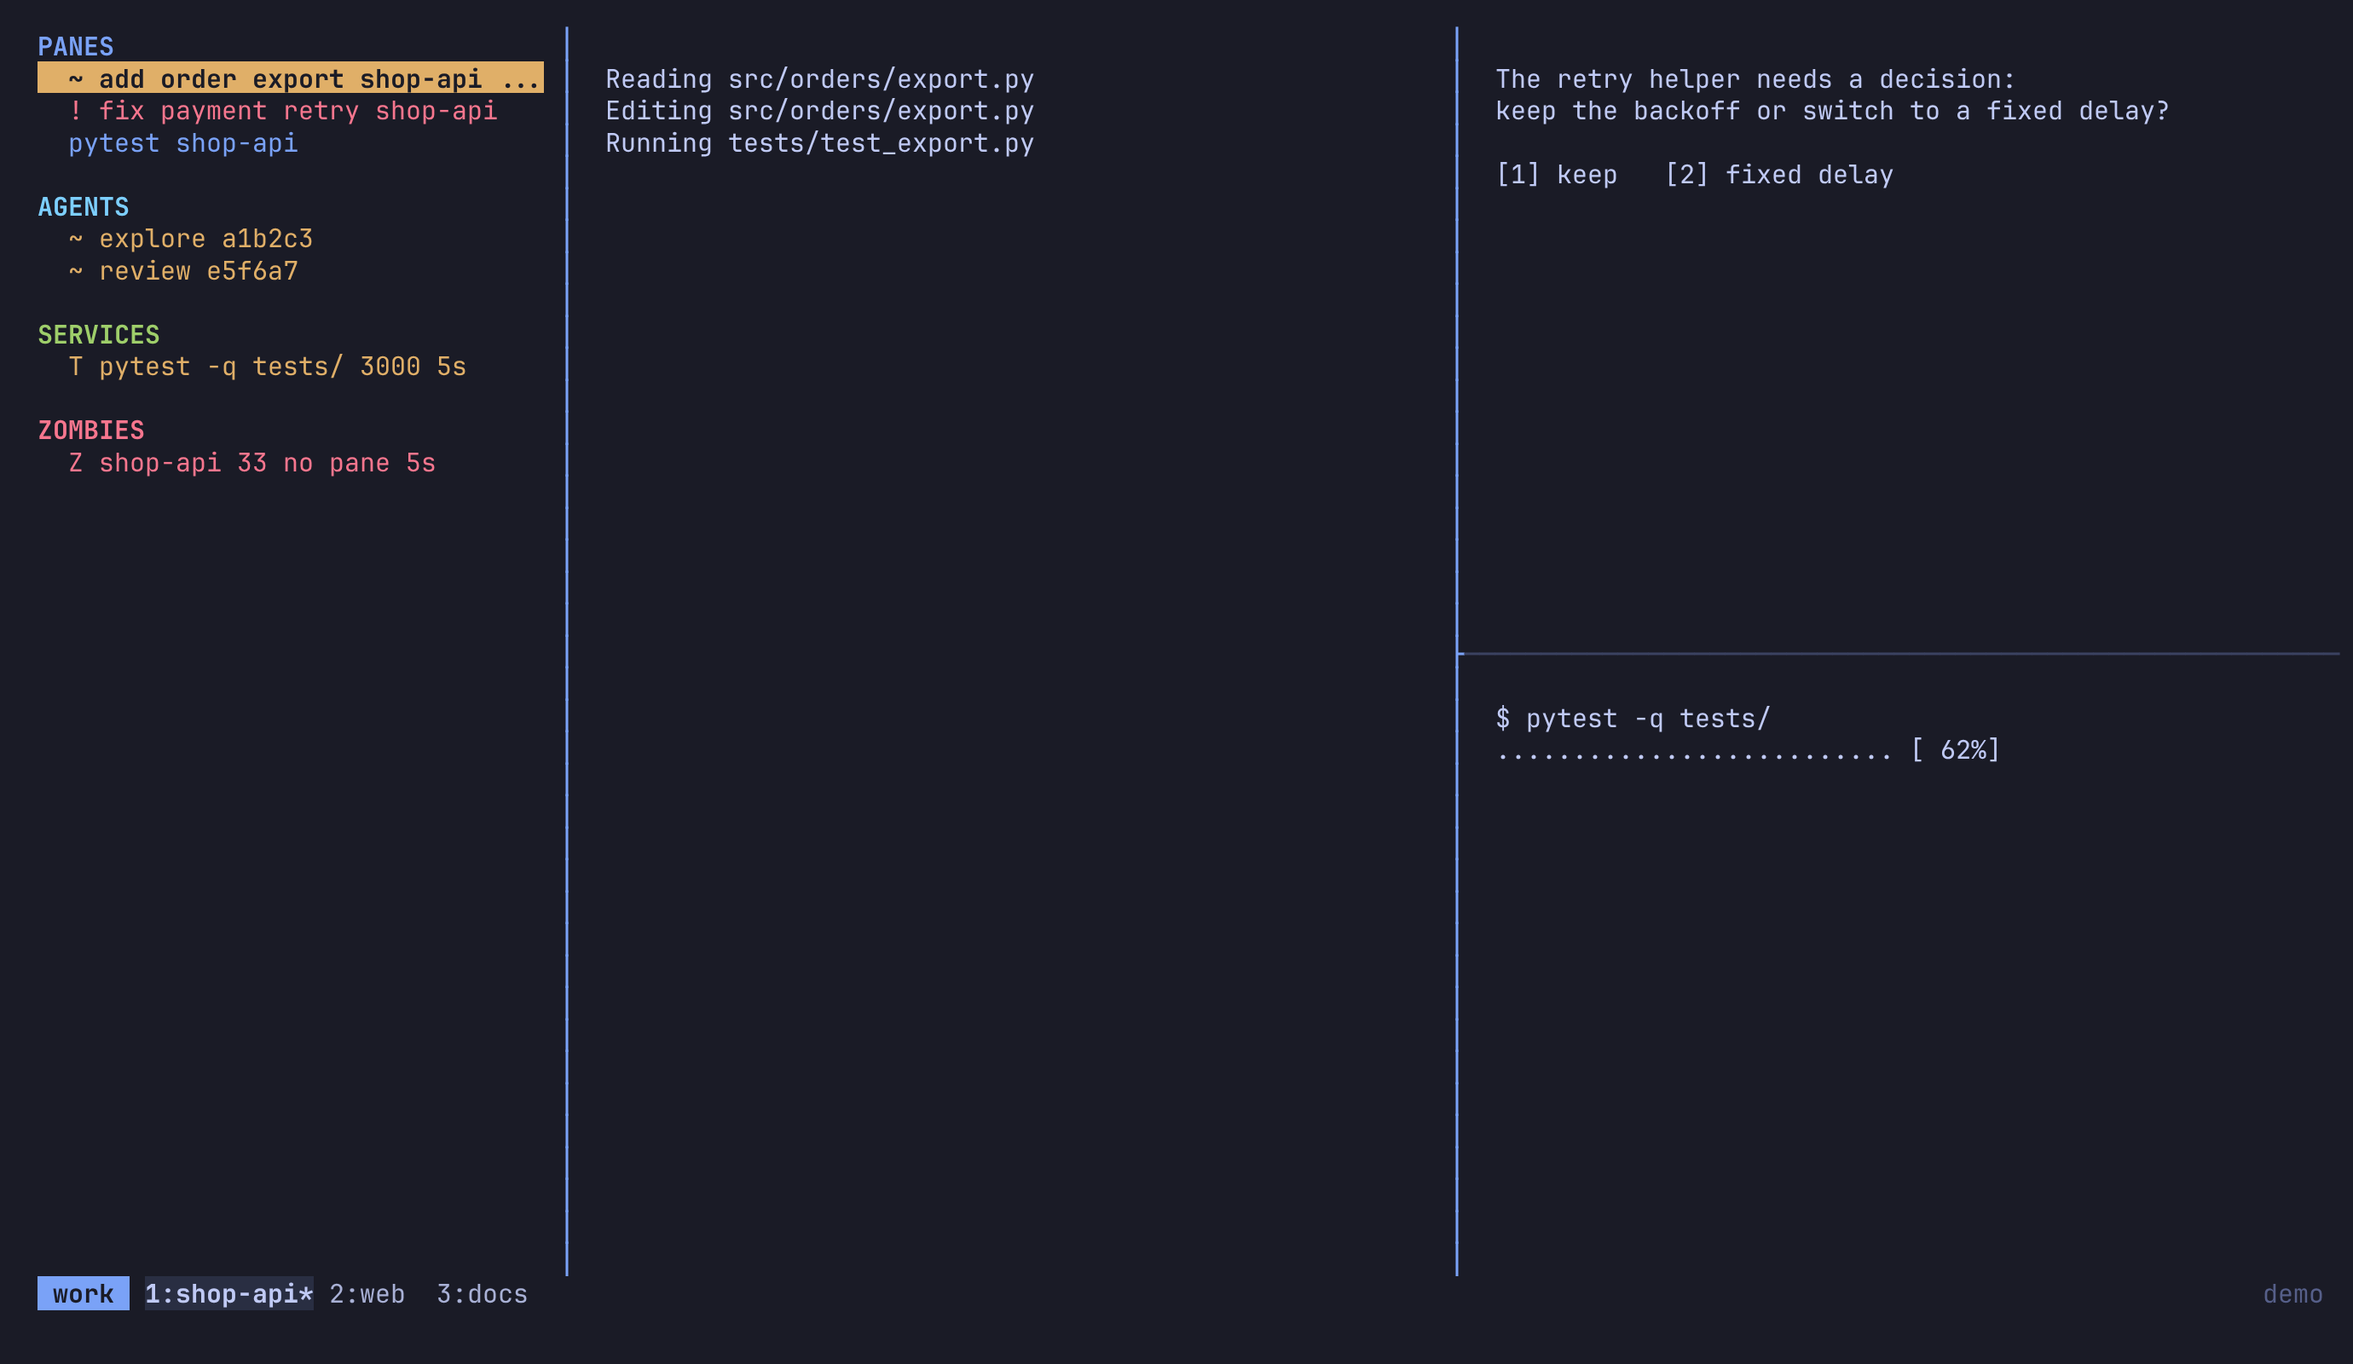
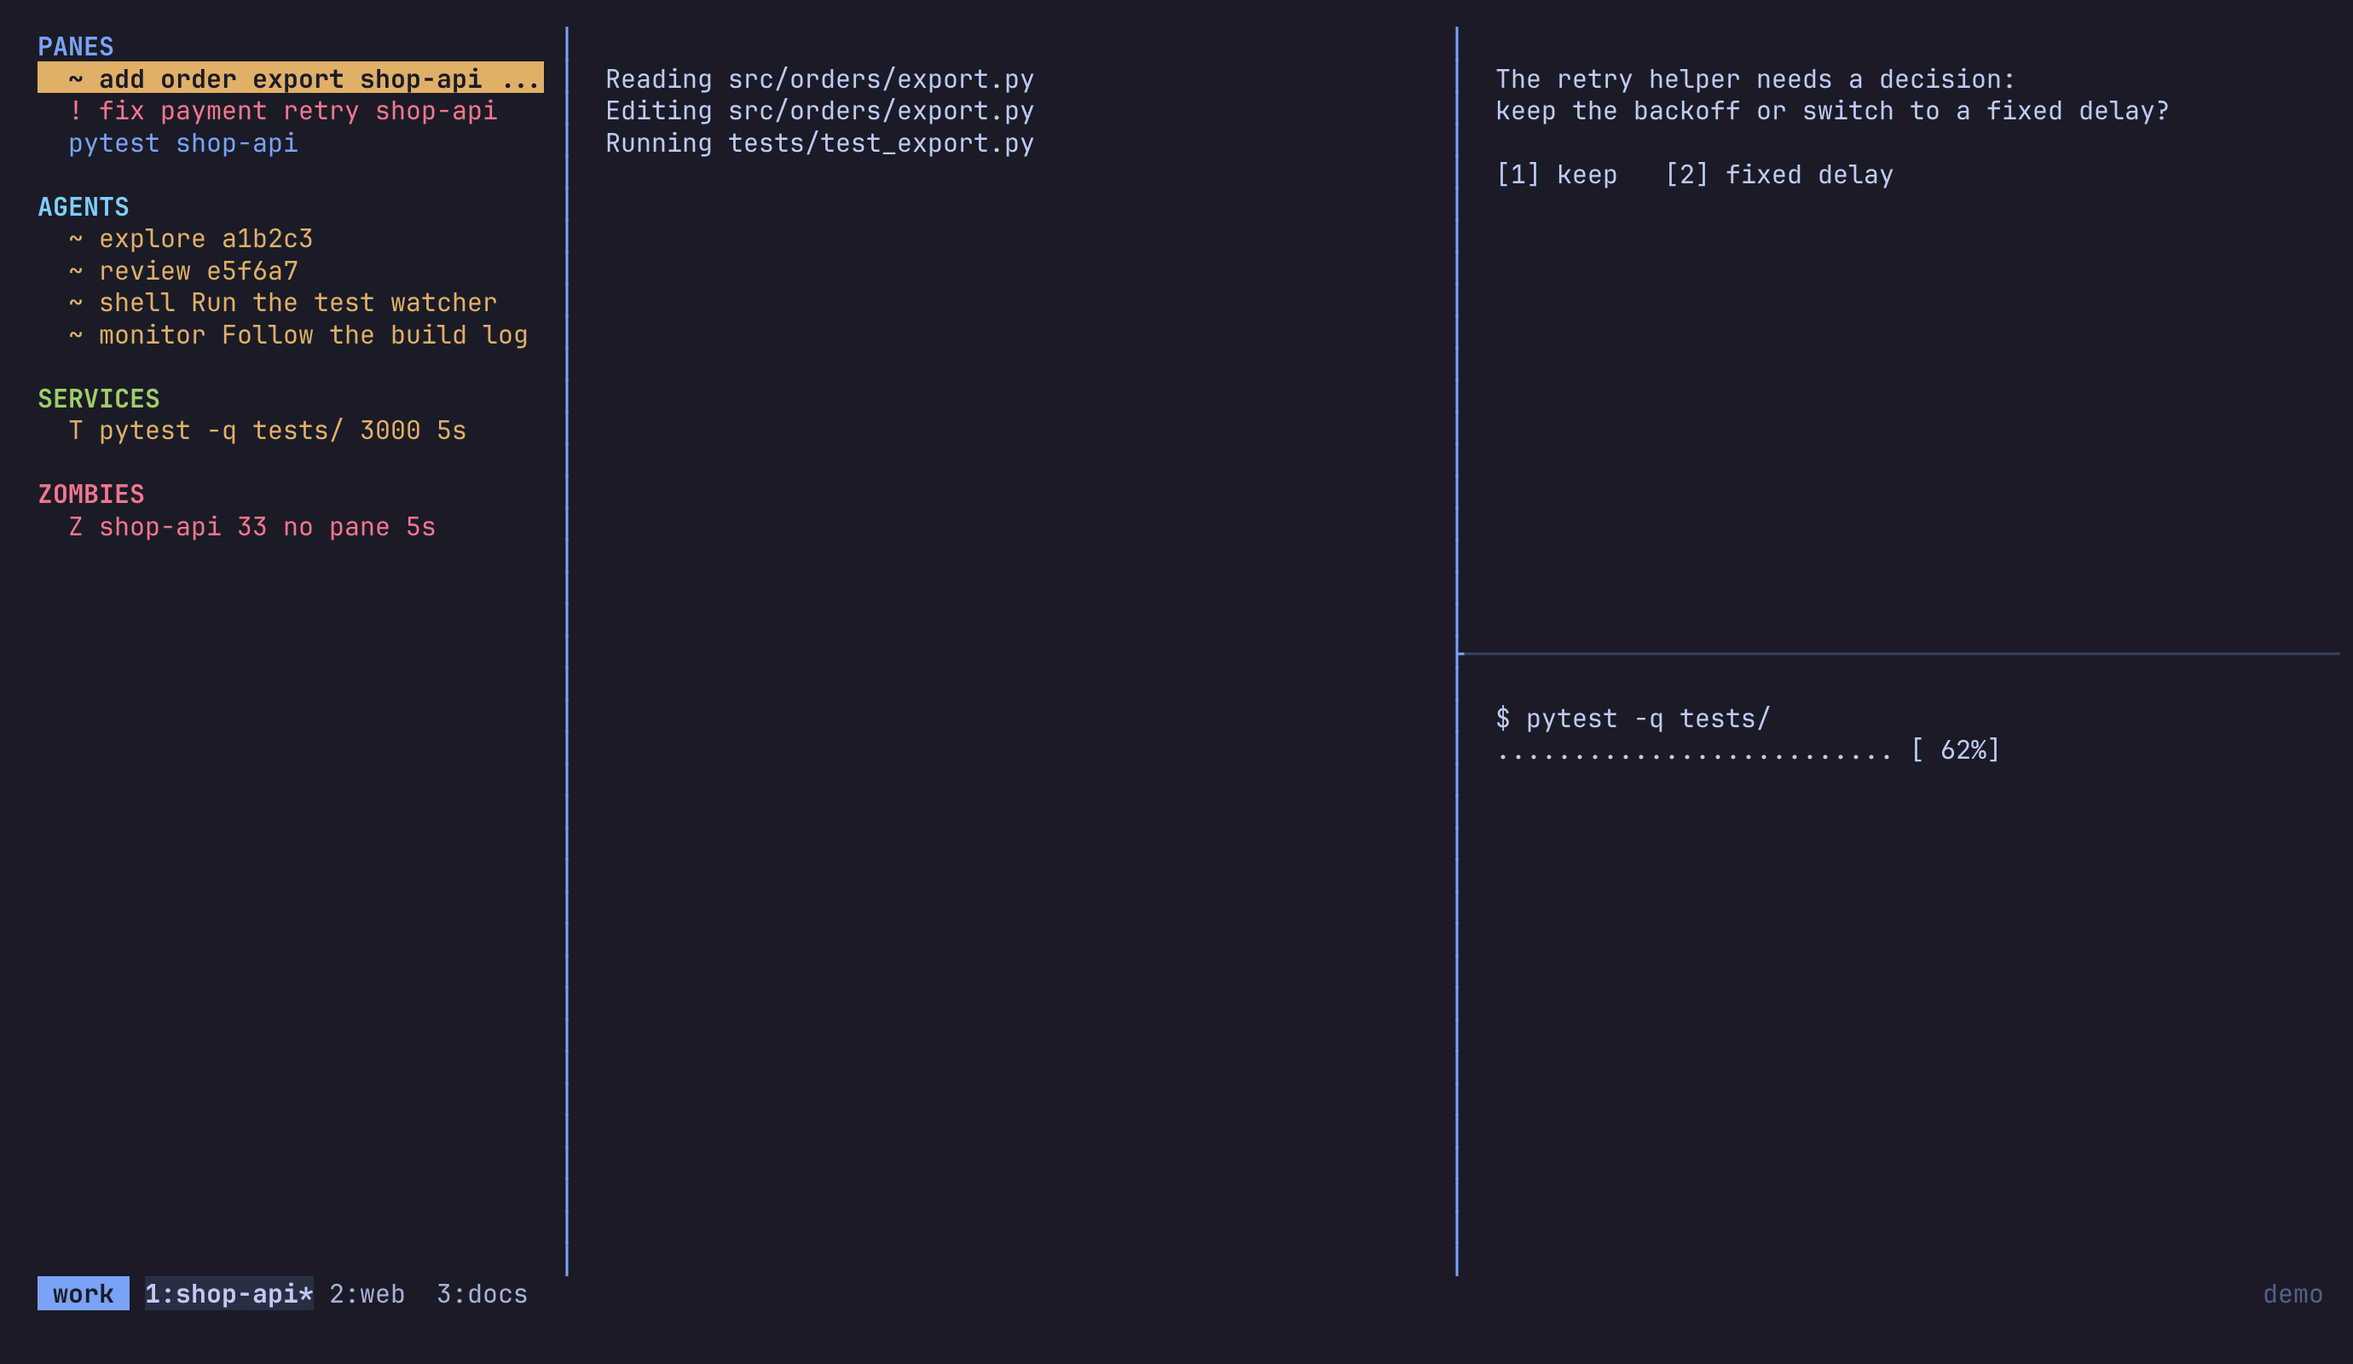
feat(panel): list the background tasks of an agent

Changed region(s): [[0.0, 0.2188, 0.2181, 0.4062], [0.1246, 0.375, 0.187, 0.4062]]

diff --git a/tests/test_hooks.py b/tests/test_hooks.py
@@ -8,6 +8,7 @@ from tmux_sidepanel.hooks import (
     StateChange,
     state_change,
     updated_subagents,
+    updated_tasks,
 )
 
 
@@ -119,3 +120,68 @@ def test_format_subagents_writes_entries_separated_by_a_space():
 
 def test_the_entry_of_a_subagent():
     assert Subagent("aaa111", "Explore").entry == "aaa111:Explore"
+
+
+BACKGROUND_START = {
+    "tool_name": "Bash",
+    "tool_input": {"command": "sleep 25", "description": "Run sleep 25", "run_in_background": True},
+    "tool_response": {"stdout": "", "backgroundTaskId": "bvz0tqfh6"},
+}
+
+
+def snapshot(*tasks, crons=()):
+    return {"background_tasks": list(tasks), "session_crons": list(crons)}
+
+
+def shell_task(identifier="bvz0tqfh6", description="Run sleep 25", status="running"):
+    return {"id": identifier, "type": "shell", "status": status, "description": description}
+
+
+class TestBackgroundTasks:
+    def test_a_background_command_is_listed_when_it_starts(self):
+        assert updated_tasks("", BACKGROUND_START) == "bvz0tqfh6:shell:Run_sleep_25"
+
+    def test_a_command_in_the_foreground_adds_nothing(self):
+        payload = {**BACKGROUND_START, "tool_response": {"stdout": "done"}}
+        assert updated_tasks("", payload) == ""
+
+    def test_a_start_keeps_the_tasks_that_run_already(self):
+        assert updated_tasks("old1:shell", BACKGROUND_START) == (
+            "old1:shell bvz0tqfh6:shell:Run_sleep_25"
+        )
+
+    def test_the_same_task_is_listed_once(self):
+        current = "bvz0tqfh6:shell:Run_sleep_25"
+        assert updated_tasks(current, BACKGROUND_START) == current
+
+    def test_a_snapshot_replaces_the_list(self):
+        payload = snapshot(shell_task("new111", "Build"))
+        assert updated_tasks("old1:shell", payload) == "new111:shell:Build"
+
+    def test_an_empty_snapshot_ends_every_task(self):
+        assert updated_tasks("old1:shell", snapshot()) == ""
+
+    def test_only_running_tasks_are_listed(self):
+        payload = snapshot(shell_task("run111"), shell_task("end222", status="completed"))
+        assert updated_tasks("", payload) == "run111:shell:Run_sleep_25"
+
+    def test_the_type_is_the_kind(self):
+        payload = snapshot({"id": "m1", "type": "monitor", "status": "running"})
+        assert updated_tasks("", payload) == "m1:monitor"
+
+    def test_subagents_are_left_to_the_subagent_hooks(self):
+        payload = snapshot({"id": "a1", "type": "subagent", "status": "running"})
+        assert updated_tasks("", payload) == ""
+
+    def test_scheduled_tasks_are_listed_as_cron(self):
+        payload = snapshot(crons=[{"id": "c1", "schedule": "*/5 * * * *", "prompt": "check"}])
+        assert updated_tasks("", payload) == "c1:cron"
+
+    def test_a_payload_without_a_snapshot_changes_nothing(self):
+        assert updated_tasks("old1:shell", {"last_assistant_message": "ok"}) == "old1:shell"
+
+    def test_odd_characters_are_replaced_and_a_long_description_is_cut(self):
+        payload = snapshot(shell_task("a b", "npm run dev --port=3000 " + "x" * 80))
+        entry = updated_tasks("", payload)
+        assert entry.startswith("a_b:shell:npm_run_dev_--port_3000_")
+        assert len(entry.split(":")[2]) == 40

diff --git a/src/tmux_sidepanel/hooks.py b/src/tmux_sidepanel/hooks.py
@@ -104,6 +104,7 @@ def keep_subagents(subagents: list[Subagent], subagent: Subagent) -> list[Subage
 
 
 SUBAGENT_UPDATES = {"sub-start": with_subagent, "sub-stop": without_subagent}
+MAX_TASK_DESCRIPTION = 40
 
 
 def updated_subagents(current: str, action: str, payload: dict[str, Any]) -> str:
@@ -112,3 +113,40 @@ def updated_subagents(current: str, action: str, payload: dict[str, Any]) -> str
     update = SUBAGENT_UPDATES.get(action, keep_subagents)
     chosen = update if subagent.has_identifier() else keep_subagents
     return format_subagents(chosen(parse_subagents(current), subagent))
+
+
+def task_entry(identifier: Any, kind: Any, description: Any = "") -> Subagent:
+    text = sanitized_token(description, "")[:MAX_TASK_DESCRIPTION]
+    return Subagent(sanitized_token(identifier, ""), sanitized_token(kind, "task"), text)
+
+
+def is_listed_task(task: dict[str, Any]) -> bool:
+    """A running task that is not a subagent: those have their own start and stop hooks."""
+    return task.get("status", "running") == "running" and task.get("type") != "subagent"
+
+
+def snapshot_tasks(payload: dict[str, Any]) -> list[Subagent]:
+    running = filter(is_listed_task, payload["background_tasks"])
+    tasks = [
+        task_entry(task.get("id", ""), task.get("type", ""), task.get("description", ""))
+        for task in running
+    ]
+    crons = [task_entry(cron.get("id", ""), "cron") for cron in payload.get("session_crons", [])]
+    return list(filter(Subagent.has_identifier, [*tasks, *crons]))
+
+
+def started_task(payload: dict[str, Any]) -> Subagent:
+    """The background command that a Bash call has just started, or an entry without identifier."""
+    identifier = payload.get("tool_response", {}).get("backgroundTaskId", "")
+    description = payload.get("tool_input", {}).get("description", "")
+    return task_entry(identifier, "shell", description)
+
+
+def updated_tasks(current: str, payload: dict[str, Any]) -> str:
+    """The stored background tasks. A snapshot (Stop) replaces the list, a started command adds."""
+    if "background_tasks" in payload:
+        return format_subagents(snapshot_tasks(payload))
+    started = started_task(payload)
+    if not started.has_identifier():
+        return current
+    return format_subagents([*without_subagent(parse_subagents(current), started), started])

diff --git a/src/tmux_sidepanel/hook_runner.py b/src/tmux_sidepanel/hook_runner.py
@@ -4,20 +4,27 @@ from collections.abc import Collection, Iterable
 from dataclasses import dataclass
 from typing import Any
 
-from tmux_sidepanel.hooks import HookContext, StateChange, state_change, updated_subagents
+from tmux_sidepanel.hooks import (
+    HookContext,
+    StateChange,
+    state_change,
+    updated_subagents,
+    updated_tasks,
+)
 from tmux_sidepanel.options import (
     OPTION_KIND,
     OPTION_NAME,
     OPTION_SESSION_STATE,
     OPTION_STATE,
     OPTION_SUBAGENTS,
+    OPTION_TASKS,
     OPTION_WINDOW_STATE,
 )
 from tmux_sidepanel.panes import PaneRecord
 from tmux_sidepanel.rollup import session_states, stale_agent_panes, window_states
 from tmux_sidepanel.tmux_client import TmuxClient
 
-AGENT_OPTIONS = (OPTION_STATE, OPTION_KIND, OPTION_NAME, OPTION_SUBAGENTS)
+AGENT_OPTIONS = (OPTION_STATE, OPTION_KIND, OPTION_NAME, OPTION_SUBAGENTS, OPTION_TASKS)
 
 
 @dataclass(frozen=True)
@@ -71,6 +78,12 @@ def apply_subagents(client: TmuxClient, pane: PaneRecord, request: HookRequest) 
         client.write_pane_option(pane.pane_identifier, OPTION_SUBAGENTS, updated)
 
 
+def apply_tasks(client: TmuxClient, pane: PaneRecord, request: HookRequest) -> None:
+    updated = updated_tasks(pane.agent_tasks, request.payload)
+    if updated != pane.agent_tasks:
+        client.write_pane_option(pane.pane_identifier, OPTION_TASKS, updated)
+
+
 def write_rollups_of(client: TmuxClient, pane: PaneRecord) -> None:
     """Write the window and session roll-ups that this pane belongs to."""
     panes = client.list_panes()
@@ -87,6 +100,7 @@ def run_hook(client: TmuxClient, request: HookRequest) -> None:
         return
     apply_state_change(client, pane, request)
     apply_subagents(client, pane, request)
+    apply_tasks(client, pane, request)
     write_rollups_of(client, pane)
 
 

diff --git a/tests/test_hook_runner.py b/tests/test_hook_runner.py
@@ -173,3 +173,27 @@ class TestReap:
         reap_stale_panes(tmux_client, ("claude",))
         assert reload_pane(tmux_client, pane).agent_state == "working"
         assert window_state(tmux_client, pane) == "working"
+
+
+class TestBackgroundTasks:
+    START = {"tool_response": {"backgroundTaskId": "bvz0tq"}, "tool_input": {}}
+
+    def test_a_start_is_stored_and_the_next_snapshot_replaces_it(self, tmux_client):
+        pane = first_pane_of_window(tmux_client, "first")
+        hook(tmux_client, pane, "working", self.START)
+        assert reload_pane(tmux_client, pane).agent_tasks == "bvz0tq:shell"
+        snapshot = {"background_tasks": [{"id": "n1", "type": "monitor", "status": "running"}]}
+        hook(tmux_client, pane, "done", snapshot)
+        assert reload_pane(tmux_client, pane).agent_tasks == "n1:monitor"
+
+    def test_an_empty_snapshot_removes_the_option(self, tmux_client):
+        pane = first_pane_of_window(tmux_client, "first")
+        hook(tmux_client, pane, "working", self.START)
+        hook(tmux_client, pane, "done", {"background_tasks": []})
+        assert reload_pane(tmux_client, pane).agent_tasks == ""
+
+    def test_the_end_of_the_session_clears_the_tasks(self, tmux_client):
+        pane = first_pane_of_window(tmux_client, "first")
+        hook(tmux_client, pane, "working", self.START)
+        hook(tmux_client, pane, "clear")
+        assert reload_pane(tmux_client, pane).agent_tasks == ""

diff --git a/src/tmux_sidepanel/agents.py b/src/tmux_sidepanel/agents.py
@@ -22,14 +22,17 @@ def most_urgent_state(states: Iterable[str]) -> str:
 class Subagent:
     identifier: str
     kind: str
+    description: str = ""  # one word, as stored: spaces are underscores
 
     @property
     def label(self) -> str:
-        return f"{self.kind} {self.identifier[:6]}"
+        what = self.description.replace("_", " ") or self.identifier[:6]
+        return f"{self.kind} {what}"
 
     @property
     def entry(self) -> str:
-        return f"{self.identifier}:{self.kind}"
+        parts = (self.identifier, self.kind, self.description)
+        return ":".join(filter(None, parts))
 
     def has_identifier(self) -> bool:
         return bool(self.identifier)
@@ -41,12 +44,11 @@ def format_subagents(subagents: Iterable[Subagent]) -> str:
 
 
 def parse_subagent(entry: str) -> Subagent:
-    identifier = entry.split(":")[0]
-    kind = entry.partition(":")[2] or "agent"
-    return Subagent(identifier, kind)
+    identifier, kind, description = (entry.split(":", 2) + ["", ""])[:3]
+    return Subagent(identifier, kind or "agent", description)
 
 
 def parse_subagents(value: str) -> list[Subagent]:
-    """Read 'identifier:kind' entries. A missing kind becomes 'agent'."""
+    """Read 'identifier:kind' or 'identifier:kind:description' entries. No kind is 'agent'."""
     subagents = map(parse_subagent, value.split())
     return list(filter(Subagent.has_identifier, subagents))

diff --git a/tests/test_agents.py b/tests/test_agents.py
@@ -56,3 +56,20 @@ class TestParseSubagents:
 
     def test_label_uses_the_kind_and_a_short_identifier(self):
         assert Subagent("a7d3bd68dc2e", "Explore").label == "Explore a7d3bd"
+
+
+class TestDescription:
+    def test_an_entry_can_carry_a_description(self):
+        subagent = Subagent("bvz0tq", "shell", "Run_sleep_25")
+        assert subagent.entry == "bvz0tq:shell:Run_sleep_25"
+
+    def test_reads_a_description_after_the_kind(self):
+        assert parse_subagents("bvz0tq:shell:Run_sleep_25") == [
+            Subagent("bvz0tq", "shell", "Run_sleep_25")
+        ]
+
+    def test_an_entry_without_a_description_reads_as_before(self):
+        assert parse_subagents("aaa111:Explore") == [Subagent("aaa111", "Explore")]
+
+    def test_the_label_shows_the_description_instead_of_the_identifier(self):
+        assert Subagent("bvz0tq", "shell", "Run_sleep_25").label == "shell Run sleep 25"

diff --git a/tests/test_pane_rows.py b/tests/test_pane_rows.py
@@ -136,6 +136,20 @@ class TestSubagentSection:
             "~ general-purpose bbb222",
         ]
 
+    def test_lists_the_background_tasks_after_the_subagents(self):
+        pane = agent_pane(
+            agent_subagents="aaa111bbb:Explore", agent_tasks="bvz0tq:shell:Run_sleep_25 c1:cron"
+        )
+        assert texts(subagent_view(pane)) == [
+            "~ Explore aaa111",
+            "~ shell Run sleep 25",
+            "~ cron c1",
+        ]
+
+    def test_a_stale_pane_has_no_background_tasks(self):
+        pane = agent_pane(current_command="zsh", agent_tasks="bvz0tq:shell")
+        assert subagent_view(pane).rows == ()
+
     def test_other_windows_are_left_out(self):
         pane = agent_pane(window_identifier="@2", agent_subagents="aaa111:Explore")
         assert subagent_view(pane).rows == ()

diff --git a/src/tmux_sidepanel/panes.py b/src/tmux_sidepanel/panes.py
@@ -15,6 +15,7 @@ from tmux_sidepanel.options import (
     OPTION_PANEL,
     OPTION_STATE,
     OPTION_SUBAGENTS,
+    OPTION_TASKS,
     option_expression,
 )
 
@@ -50,6 +51,7 @@ class PaneRecord:
     agent_kind: str
     agent_name: str
     agent_subagents: str
+    agent_tasks: str
     is_panel: bool
 
     @property
@@ -108,6 +110,7 @@ PANE_FIELDS = (
     PaneField("agent_kind", option_expression(OPTION_KIND), to_text),
     PaneField("agent_name", option_expression(OPTION_NAME), to_text),
     PaneField("agent_subagents", option_expression(OPTION_SUBAGENTS), to_text),
+    PaneField("agent_tasks", option_expression(OPTION_TASKS), to_text),
     PaneField("is_panel", option_expression(OPTION_PANEL), to_boolean),
 )
 

diff --git a/src/tmux_sidepanel/pane_rows.py b/src/tmux_sidepanel/pane_rows.py
@@ -109,7 +109,8 @@ def subagent_row(section: Section, pane: PaneRecord, subagent: Subagent, state: 
 
 def pane_subagent_rows(section: Section, pane: PaneRecord, agents: AgentSettings) -> list[Row]:
     state = effective_state(pane, agents)
-    subagents = parse_subagents(pane.agent_subagents) if state else []
+    entries = f"{pane.agent_subagents} {pane.agent_tasks}"
+    subagents = parse_subagents(entries) if state else []
     return [subagent_row(section, pane, subagent, state) for subagent in subagents]
 
 

diff --git a/tests/test_panes.py b/tests/test_panes.py
@@ -31,6 +31,7 @@ DEFAULT_VALUES = {
     "agent_kind": "claude",
     "agent_name": "",
     "agent_subagents": "aaa111:Explore",
+    "agent_tasks": "bvz0tq:shell",
     "is_panel": "",
 }
 
@@ -78,6 +79,7 @@ def test_parses_a_line_into_a_record():
         agent_kind="claude",
         agent_name="",
         agent_subagents="aaa111:Explore",
+        agent_tasks="bvz0tq:shell",
         is_panel=False,
     )
 

diff --git a/src/tmux_sidepanel/options.py b/src/tmux_sidepanel/options.py
@@ -4,6 +4,7 @@ OPTION_STATE = "@sidepanel_state"
 OPTION_KIND = "@sidepanel_kind"
 OPTION_NAME = "@sidepanel_name"
 OPTION_SUBAGENTS = "@sidepanel_subagents"
+OPTION_TASKS = "@sidepanel_tasks"
 OPTION_PANEL = "@sidepanel_panel"
 OPTION_WINDOW_STATE = "@sidepanel_window_state"
 OPTION_SESSION_STATE = "@sidepanel_session_state"

diff --git a/tests/builders.py b/tests/builders.py
@@ -25,6 +25,7 @@ DEFAULT_PANE_RECORD = PaneRecord(
     agent_kind="",
     agent_name="",
     agent_subagents="",
+    agent_tasks="",
     is_panel=False,
 )
 
